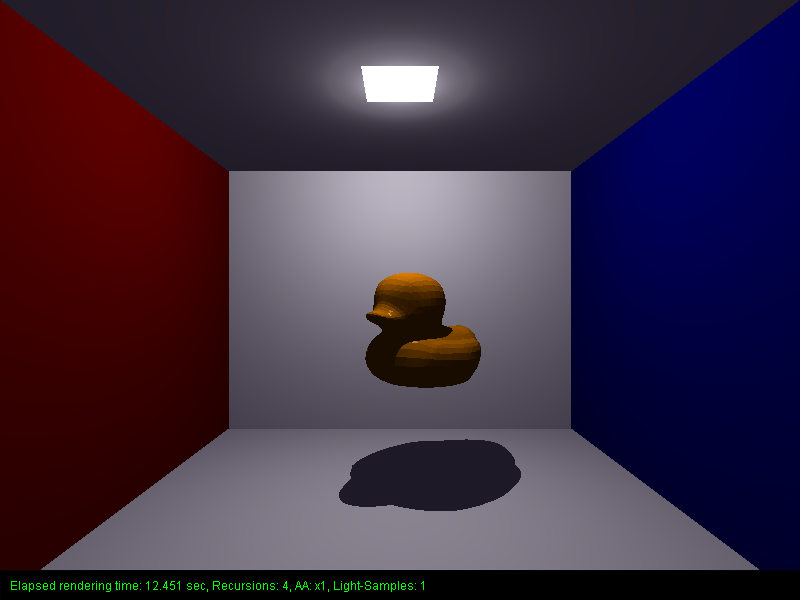
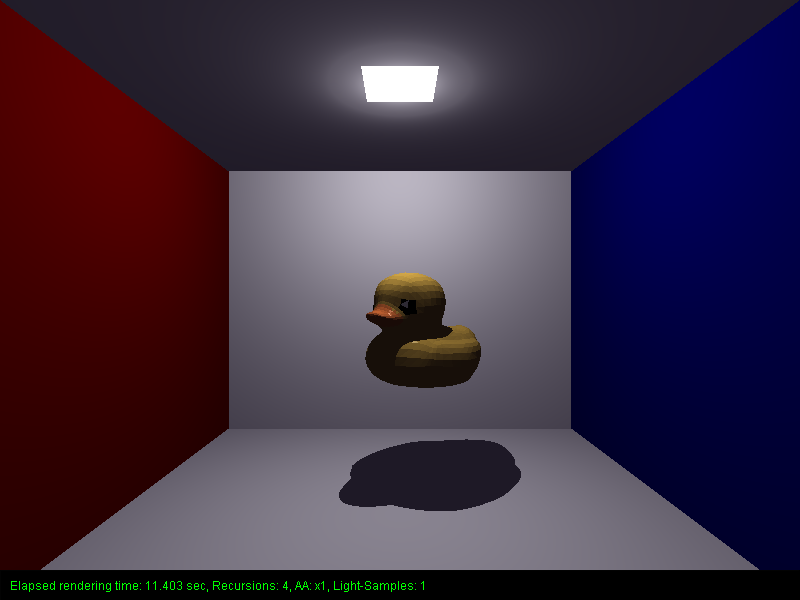
Texture mapping works :)

Changed region(s): [[0.4688, 0.45, 0.5625, 0.54], [0.5, 0.54, 0.5938, 0.6]]

diff --git a/VCG_Raytracer/src/utils/ObjImporter.java b/VCG_Raytracer/src/utils/ObjImporter.java
@@ -45,9 +45,9 @@ public class ObjImporter {
 
                 String[] s = line.split("\\s+");
 
-                float x = (float) Double.parseDouble(s[1]);
-                float y = (float) Double.parseDouble(s[2]);
-                float z = (float) Double.parseDouble(s[3]);
+                float x = Float.parseFloat(s[1]);
+                float y = Float.parseFloat(s[2]);
+                float z = Float.parseFloat(s[3]);
 
                 vertices.add(new Vec3(x, y, z));
             }
@@ -140,8 +140,7 @@ public class ObjImporter {
 
         //need one array for the vertices/corners and one for the faces
         List<Vec3> vertices = new ArrayList<>();
-        List<int[]> faces = new ArrayList<>();
-        //type int[] to pair index slots so that 3 vertices can belong to each face
+        List<String[]> faces = new ArrayList<>();
         List<String> faceMatNames = new ArrayList<>();
         List<Vec2> textureCoords = new ArrayList<>();
         
@@ -170,24 +169,24 @@ public class ObjImporter {
 
             //------ vertice textures ---------------
             //save all vertice textures in another array so that we can go through those with the same index later 
-            if(line.startsWith("vt")){
+            else if(line.startsWith("vt")){
                 String[] s = line.split("\\s+");
 
-                float u = (float) Double.parseDouble(s[1]);
-                float v = (float) Double.parseDouble(s[2]);
+                float u = Float.parseFloat(s[1]);
+                float v = Float.parseFloat(s[2]);
 
                 textureCoords.add(new Vec2(u, v));
             }
 
             //------------ vertices(corners) ---------------------------
             //look for vertices aka lines starting with v
-            if (line.startsWith("v ")) {
+            else if (line.startsWith("v ")) {
 
                 String[] s = line.split("\\s+");
 
-                float x = (float) Double.parseDouble(s[1]);
-                float y = (float) Double.parseDouble(s[2]);
-                float z = (float) Double.parseDouble(s[3]);
+                float x = Float.parseFloat(s[1]);
+                float y = Float.parseFloat(s[2]);
+                float z = Float.parseFloat(s[3]);
 
                 vertices.add(new Vec3(x, y, z));
             }
@@ -202,13 +201,8 @@ public class ObjImporter {
                 if (s.length != 4)
                     continue;
 
-                //grab the index info
-                int i1 = parseIndex(s[1]);
-                int i2 = parseIndex(s[2]);
-                int i3 = parseIndex(s[3]);
-
-                //based on index info we find out which vertices together build a face
-                faces.add(new int[]{i1, i2, i3});
+                //we can grab this directly dont need the inbetween if we save as string and not int
+                faces.add(new String[]{s[1], s[2], s[3]});
                 faceMatNames.add(currentMatName);
             }
         }
@@ -229,50 +223,52 @@ public class ObjImporter {
         Vec3 min = new Vec3();
         Vec3 max = new Vec3();
 
-        //for each face we create a polygon based off of the faces index telling us which vertices belong to it
-        //additionally we transform them here since doing it after would be a pain
-        /*for (int[] face : faces) {
-            Vec3 v1 = transform.multVec3(vertices.get(face[0]), true);
-            Vec3 v2 = transform.multVec3(vertices.get(face[1]), true);
-            Vec3 v3 = transform.multVec3(vertices.get(face[2]), true);
-
-            Vec3[] transformedVertices = {v1, v2, v3};
-            updateBoundingBox(min, max, transformedVertices);
-
-            polymesh.addPolygon(new Polygon(v1, v2, v3, newMat));
-        }*/
 
         //need a different loop here prob a for loop to be able to use the index in both array
         for(int i=0; i < faces.size(); i++){
             //get current face
-            int[] face = faces.get(i);
+            String[] face = faces.get(i);
+
 
             //get current mat
             String matName = faceMatNames.get(i);
-            Material mat = allMats.get(matName);
+            Material mat = allMats.get(matName);//this is the variable we'll base stuff off of
+            Material polygonMat = mat; //this is the variable we'll overwrite again and again
 
             //maybe here try and calc diffuse off of map if map exists
             if(mat.getDiffuseTextureMap() != null){
-                Vec2 uv1 = textureCoords.get(face[0]);
-                Vec2 uv2 = textureCoords.get(face[1]);
-                Vec2 uv3 = textureCoords.get(face[2]);
+
+                int t1 = parseTextureIndex(face[0]);
+                int t2 = parseTextureIndex(face[1]);
+                int t3 = parseTextureIndex(face[2]);
+
+                Vec2 uv1 = textureCoords.get(t1);
+                Vec2 uv2 = textureCoords.get(t2);
+                Vec2 uv3 = textureCoords.get(t3);
                 Vec2 uvAvg = new Vec2((uv1.x + uv2.x + uv3.x) /3f, (uv1.y + uv2.y + uv3.y) /3f);
                 //das sind dann unsere texture coords fürs gesamte polygon
 
+                //we gotta make a copy of the mat since theres only one instance of it and we're basically just copying the save slot marker(think oop)
+                //so hence why we now got a copy method
+                polygonMat = mat.copy();
                 RgbColor colorAtAvg = sampleUV(mat.getDiffuseTextureMap(), uvAvg);
-                mat.setDiffuseK(colorAtAvg);
+                polygonMat.setDiffuseK(colorAtAvg);
             }
             
 
+            // Vertexindizes
+            int i1 = parseVertexIndex(face[0]);
+            int i2 = parseVertexIndex(face[1]);
+            int i3 = parseVertexIndex(face[2]);
 
-            Vec3 v1 = transform.multVec3(vertices.get(face[0]), true);
-            Vec3 v2 = transform.multVec3(vertices.get(face[1]), true);
-            Vec3 v3 = transform.multVec3(vertices.get(face[2]), true);
+            Vec3 v1 = transform.multVec3(vertices.get(i1), true);
+            Vec3 v2 = transform.multVec3(vertices.get(i2), true);
+            Vec3 v3 = transform.multVec3(vertices.get(i3), true);
 
             Vec3[] transformedVertices = {v1, v2, v3};
             updateBoundingBox(min, max, transformedVertices);
 
-            polymesh.addPolygon(new Polygon(v1, v2, v3, mat));
+            polymesh.addPolygon(new Polygon(v1, v2, v3, polygonMat));
         }
 
         //save the bounding box inside of the mesh shape
@@ -283,18 +279,36 @@ public class ObjImporter {
 
     private static RgbColor sampleUV(BufferedImage image, Vec2 uvCoords){
         int x = (int)(uvCoords.x * (image.getWidth() - 1));
-        int y = (int)((1 - uvCoords.y) * (image.getHeight() - 1)); // weil Bilder meist oben beginnen
+        int y = (int)((1 - uvCoords.y) * (image.getHeight() - 1)); 
+        //1 - at start due to pictures starting in top left
 
+        //getRGB method just exists but gives it back as int in Bit form
+        //gives us 32Bit ARGB each 8Bit like in rechner architektur & netze
         int rgb = image.getRGB(x, y);
 
+        //we move the bits to the right to isolate them and then do a & check with 0xFF
+        //0xFF = 00000000 00000000 00000000 11111111 -> result only far right byte gets through so only the color we want
+        //Red is 2nd Byte ^^^^^^^^  so we need to move 16bit right to only look at it
+        //Green is 3rd Byte        ^^^^^^^^ so we need to move 8bit right
+        //Blue is last Byte                 ^^^^^^^^ dont need to move at all 
         int r = (rgb >> 16) & 0xFF;
         int g = (rgb >> 8) & 0xFF;
         int b = rgb & 0xFF;
 
+        //then each divided by 255 due to 8Bit resulting in a max of 255 and we want a float value for our RgbColor
         return new RgbColor(
             r / 255f,
             g / 255f,
             b / 255f
         );
     }
+
+    private static int parseVertexIndex(String token) {
+        return Integer.parseInt(token.split("/")[0]) - 1;
+    }
+
+    private static int parseTextureIndex(String token) {
+        return Integer.parseInt(token.split("/")[1]) - 1;
+    }
+
 }

diff --git a/VCG_Raytracer/src/scene/material/Material.java b/VCG_Raytracer/src/scene/material/Material.java
@@ -22,18 +22,6 @@ public abstract class Material {
     protected float transmission_index = 1; // final variables set in Main, provided at instantiation
     protected BufferedImage diffuseTextureMap;
 
-    public BufferedImage getDiffuseTextureMap() {
-        return diffuseTextureMap;
-    }
-
-    public void setDiffuseTextureMap(BufferedImage diffuseTextureMap) {
-        this.diffuseTextureMap = diffuseTextureMap;
-    }
-
-    public void setDiffuseK(RgbColor  _diffuseK){
-        this.diffuseK = _diffuseK;
-    }
-
     /** 
      * Standard Material class without any added effects
     */
@@ -228,4 +216,21 @@ public abstract class Material {
         _intersection.setTransmissionRay(vOutRay);
     }
 
+
+    //extra stuff for texture mapping
+    public BufferedImage getDiffuseTextureMap() {
+        return diffuseTextureMap;
+    }
+
+    public void setDiffuseTextureMap(BufferedImage diffuseTextureMap) {
+        this.diffuseTextureMap = diffuseTextureMap;
+    }
+
+    //setter to set full polygon color off of avg UV for now
+    public void setDiffuseK(RgbColor  _diffuseK){
+        this.diffuseK = _diffuseK;
+    }
+
+    //copy method cuz we cant use one mat for each poly we gotta copy it and edit the copy
+    public abstract Material copy();
 }

diff --git a/VCG_Raytracer/src/scene/shape/Polygon.java b/VCG_Raytracer/src/scene/shape/Polygon.java
@@ -15,6 +15,7 @@ public class Polygon extends Shape{ //cant do extend plane here unless we wanna 
     //optional, used for texture mapping
     protected Vec2 uv1, uv2, uv3;//will for now try and calc a medium between the 3 instead to have 1 color per poly to avoid having to do baryzentric coordinates for now
     //will leave this here for future tho
+    //update: we dont use these for now and instead calc the avg outside and use avg for polygon diffuse color since i didnt wanna rewrite whole intersect method to barycentric coords system for now
 
     public Polygon(Vec3 pos1, Vec3 pos2, Vec3 pos3, Material material) {
         super(pos1, material); //this can be any corner pos shouldnt matter which

diff --git a/VCG_Raytracer/src/scene/material/Phong.java b/VCG_Raytracer/src/scene/material/Phong.java
@@ -90,4 +90,15 @@ public class Phong extends Material {
         return output;
     }
 
+
+    //basic copy method needed for texture mapping
+    public Phong copy(){
+        Phong copy;
+
+        copy = new Phong(diffuseK, specularK, specularExponent, reflection, transmission, transmission_index);
+        if(this.getDiffuseTextureMap() != null)
+            copy.setDiffuseTextureMap(diffuseTextureMap);
+        
+        return copy;
+    }
 }

diff --git a/VCG_Raytracer/src/scene/material/Lambert.java b/VCG_Raytracer/src/scene/material/Lambert.java
@@ -71,4 +71,15 @@ public class Lambert extends Material {
         }
         return output;
     }
+
+    //basic copy method needed for texture mapping
+    public Lambert copy(){
+        Lambert copy;
+
+        copy = new Lambert(diffuseK, reflection, transmission, transmission_index);
+        if(this.getDiffuseTextureMap() != null)
+            copy.setDiffuseTextureMap(diffuseTextureMap);
+
+        return copy;
+    }
 }

diff --git a/VCG_Raytracer/src/scene/material/Solid.java b/VCG_Raytracer/src/scene/material/Solid.java
@@ -20,4 +20,8 @@ public class Solid extends Material {
     public RgbColor getColor(Intersection _intersection, Scene _scene, int _depth){
         return this.colorOverride;
     }
+
+    public Material copy(){
+        return new Solid();
+    }
 }
